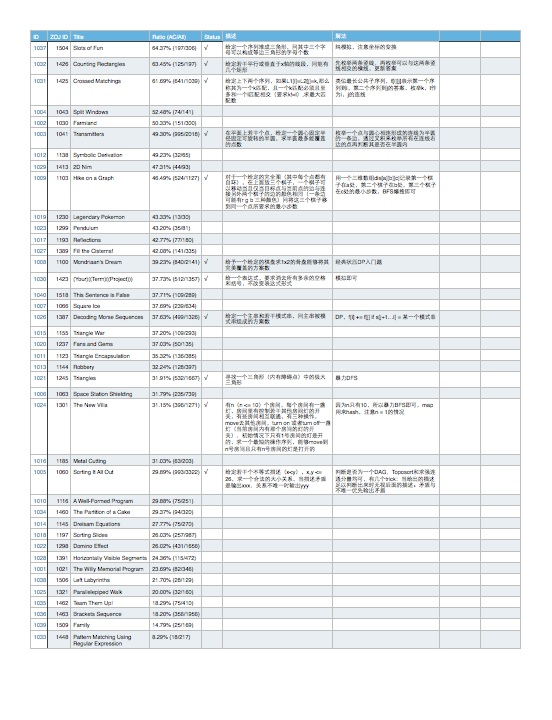
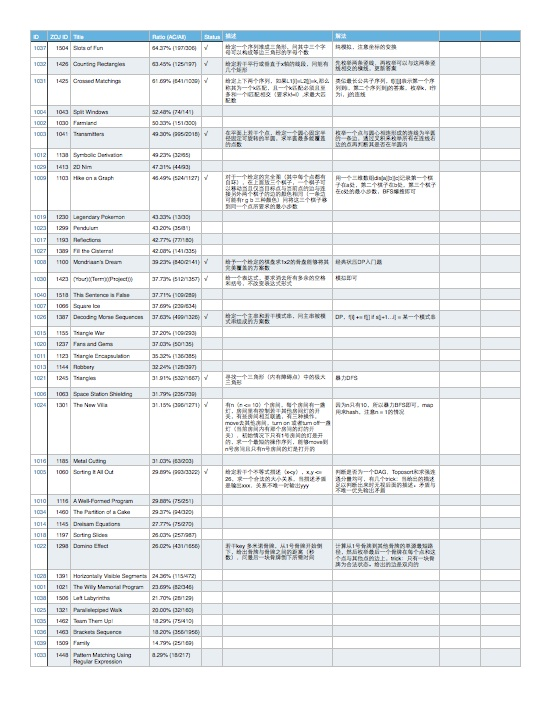
Add 1298

Changed region(s): [[0.0616, 0.7333, 0.9547, 0.9472]]

diff --git a/1298/1298.cpp b/1298/1298.cpp
@@ -1,0 +1,121 @@
+//
+//  1298.cpp
+//  Code for ZOJ
+//
+//  Created by Orpine on 13-11-9.
+//  Copyright (c) 2013年 Orpine. All rights reserved.
+//
+
+//Header
+#include <cstdio>
+#include <cstdlib>
+#include <cstring>
+#include <cmath>
+#include <ctime>
+
+#include <iostream>
+#include <algorithm>
+#include <vector>
+#include <set>
+#include <map>
+#include <string>
+#include <queue>
+#include <stack>
+
+using namespace std;
+
+//Macro
+#define rep(i, a, b) for (size_t i = a; i <= b; ++i)
+#define drep(i, a, b) for (size_t i = a; i >= b; --i)
+#define irep(i, e, x) for (size_t i = x; i; i = e[i].next)
+#define sqr(x) ((x) * (x))
+
+typedef long long ll;
+const int oo = ~0u>>2;
+const double inf = 1e300;
+const double eps = 1e-6;
+
+//Variable
+vector<pair<int,int> > v[508];
+int n, m;
+int dis[508];
+bool vis[508];
+//Program
+double Calc(int x, int y, int l) {
+    if (abs(x - y) == l) return -1;
+	return (l - abs(x - y)) / 2.0 + max(x, y);
+}
+void Work()
+{
+    
+	queue<int> q;
+    for (int i = 1; i <= n; i++) {
+        dis[i] = oo;
+        vis[i] = false;
+    }
+	int x, y, z, flag = 1;
+	double ans = 0.0, ret;
+	
+	for (int i = 1; i <= n; i++) {
+		v[i].clear();
+	}
+	for (int i = 1; i <= m; i++) {
+		scanf("%d%d%d", &x, &y, &z);
+		v[x].push_back(make_pair(y, z));
+        v[y].push_back(make_pair(x, z));
+	}
+	dis[1] = 0;
+	q.push(1);
+	while (!q.empty()) {
+		x = q.front();vis[x] = false;
+		q.pop();
+		for (int i = 0; i < v[x].size(); i++) {
+			y = v[x][i].first;
+			z = v[x][i].second;
+			if (dis[y] > dis[x] + z) {
+				dis[y] = dis[x] + z;
+				if (!vis[y]) {
+					vis[y] = true;
+					q.push(y);
+				}
+			}
+		}
+	}
+	
+	for (int i = 1; i <= n; i++) {
+		if (dis[i] > ans) {
+			flag = i;
+			ans = dis[i];
+		}
+		for (int j = 0; j < v[i].size(); j++) {
+			ret = Calc(dis[v[i][j].first], dis[i], v[i][j].second);
+			if (ret > ans) {
+				ans = ret;
+				flag = -1;
+				x = min(v[i][j].first, i);
+				y = max(v[i][j].first, i);
+			}
+		}
+	}
+    if (n == 1) {
+		printf("The last domino falls after 0.0 seconds, at key domino 1.\n\n");
+        return;
+    }
+	if (flag == -1) {
+		printf("The last domino falls after %.1lf seconds, between key dominoes %d and %d.\n\n", ans, x, y);
+	} else {
+		printf("The last domino falls after %.1lf seconds, at key domino %d.\n\n", ans, flag);
+	}
+}
+int main()
+{
+	for (int i = 1; ; i++) {
+		scanf("%d%d", &n, &m);
+        if (n == 0 && m == 0) {
+            break;
+        }
+		printf("System #%d\n", i);
+		Work();
+	}
+    return 0;
+}

diff --git a/1060/1060.cpp b/1060/1060.cpp
@@ -75,28 +75,28 @@ void Work()
         v[i].clear();
     }
     memset(indeg, 0, sizeof indeg);
-	char x, y;
+	char x, y, ch[10];
     int ret;
 	for (int i = 1; i <= m; i++) {
-		scanf("%c<%c%*c", &x, &y);
-		x -= 'A', y -= 'A';
+        scanf("%s", ch);
+        x = ch[0] - 'A', y = ch[2] - 'A';
 		indeg[y]++;
 		v[x].push_back(y);
         ret = Topo();
 		if (ret == -1) {
 			printf("Inconsistency found after %d relations.\n", i);
 			for (int j = i + 1; j <= m; j++) {
-                scanf("%c<%c%*c", &x, &y);
+                scanf("%s", ch);
             }
             return;
 		} else if (ret == 0) {
-            printf("Sorted sequence determined after %d relations:", i);
+            printf("Sorted sequence determined after %d relations: ", i);
             for(int i = 1; i <= n; i++) {
                 printf("%c", seq[i] + 'A');
             }
             printf(".\n");
 			for (int j = i + 1; j <= m; j++) {
-                scanf("%c<%c%*c", &x, &y);
+                scanf("%s", ch);
             }
             return;
         }
@@ -107,7 +107,7 @@ int main()
 {
 	while(1)
 	{
-		scanf("%d%d%*c", &n, &m);
+		scanf("%d%d", &n, &m);
 		if(n == 0 && m == 0)
 			break;
 		Work();
